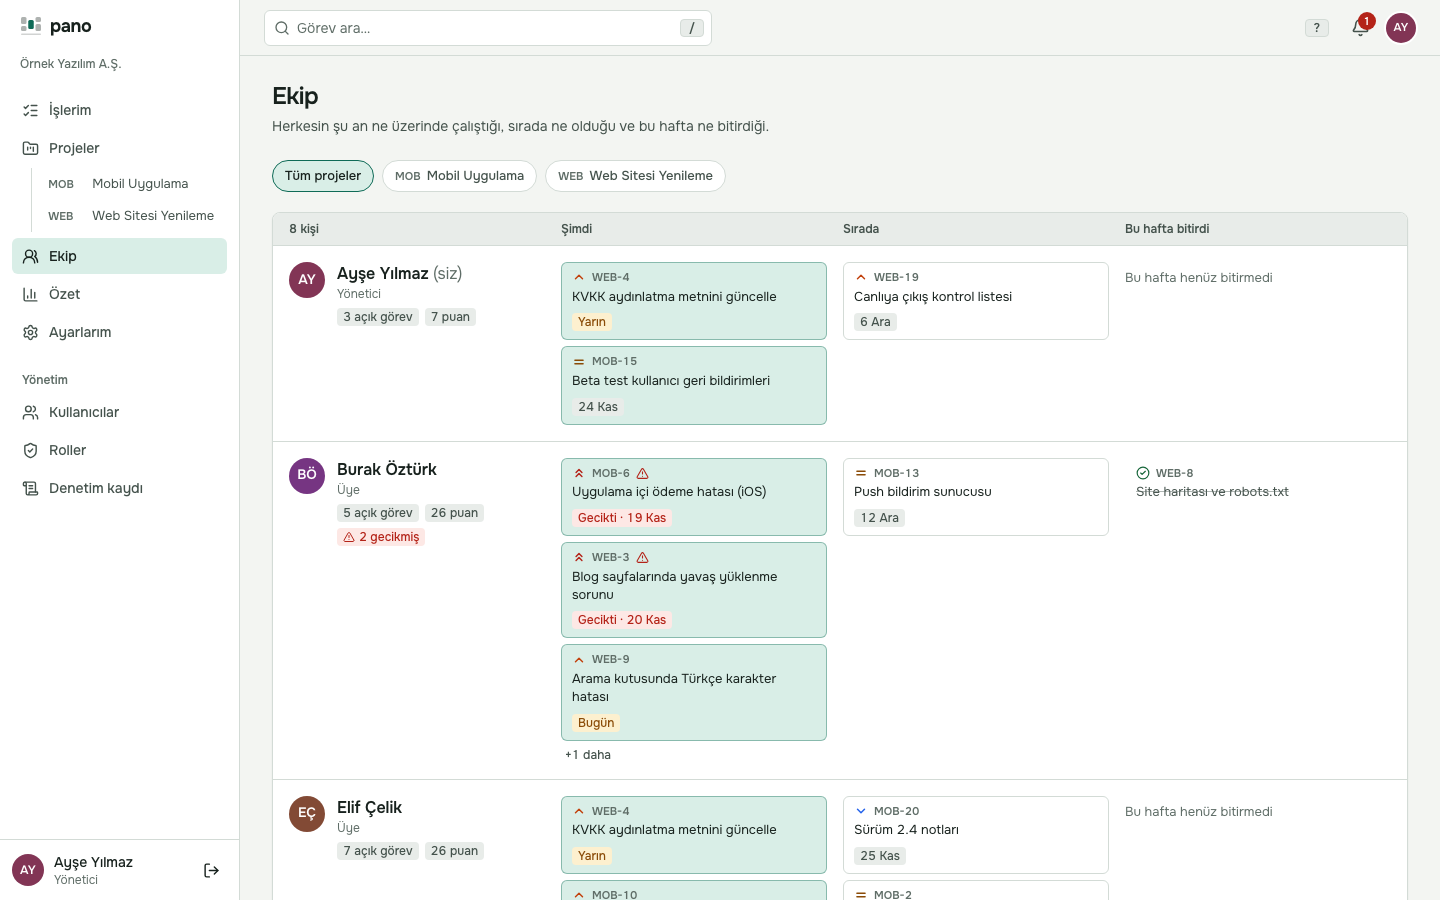
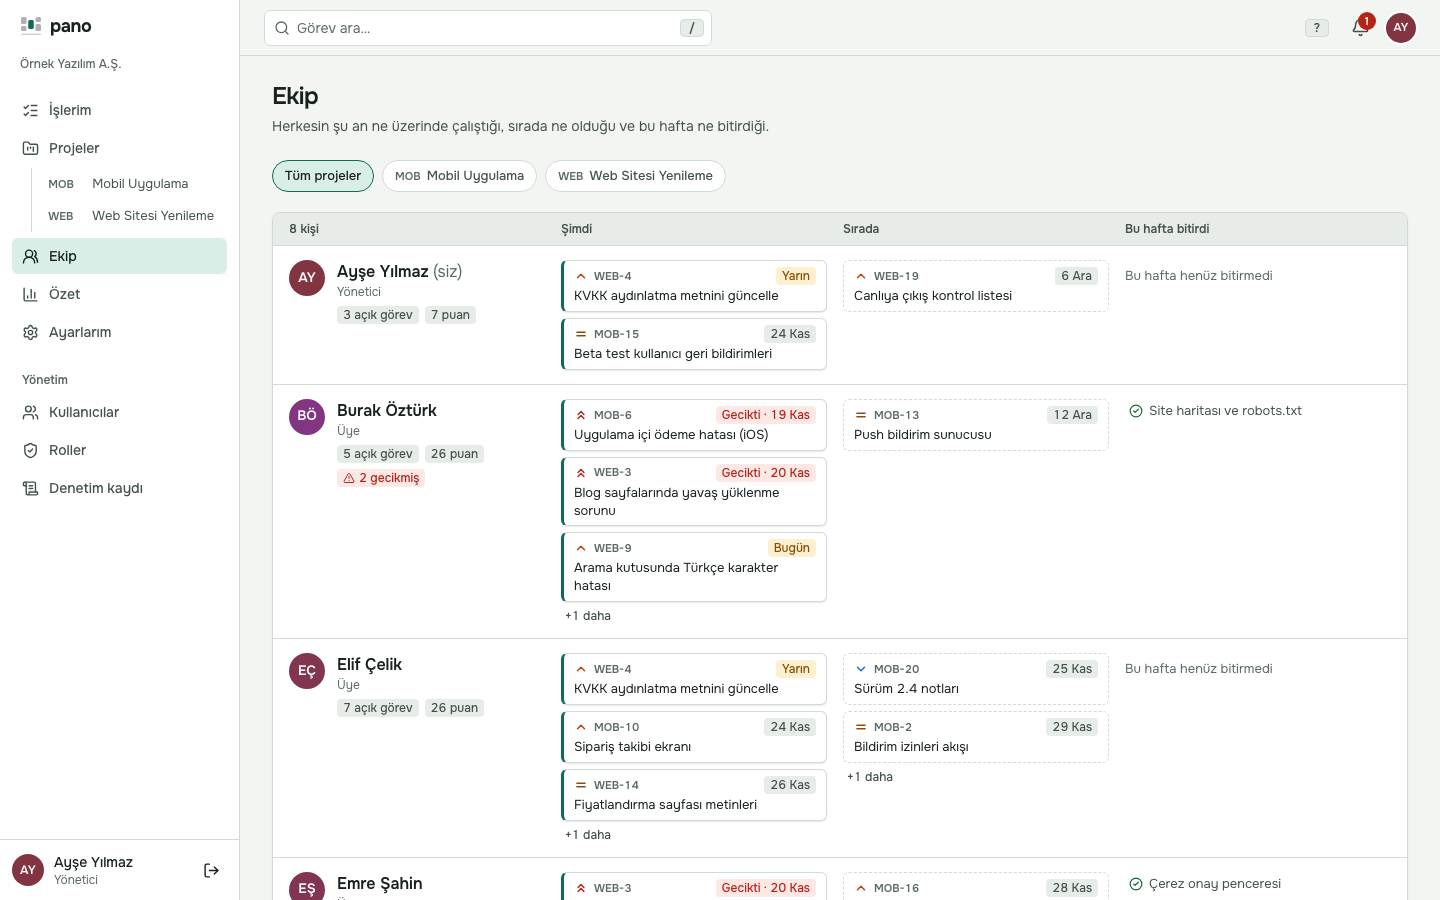
README screenshots refreshed; CHANGELOG: design round

diff --git a/CHANGELOG.md b/CHANGELOG.md
@@ -5,6 +5,27 @@ All notable changes to this project are documented here. The format follows
 
 ## [Unreleased]
 
+### Fixed (design round)
+
+- Sign-in, sign-up and invite pages over plain HTTP on a non-localhost address (with the default `COOKIE_SECURE=true`) bounced back without a word; they now explain that the browser will not keep the cookie and what to do. Detection is the browser's own `isSecureContext`. Checked by opening the app via the machine's LAN IP.
+- 404 pages ignored dark mode (Next renders them on the client, where the inline theme script never runs). e2e checks `data-theme` on a 404 in a dark context.
+- Overview overflowed the screen on phones; the weekly chart labels now wrap.
+- Board: at 1440px the Done column was cut off; the four default columns now share the width (min 15rem each, still scrolling when there are more). An over-limit (WIP) column keeps its amber border with a softer fill, which was loud in dark mode.
+- Automatic hyphenation removed: Turkish task titles were split by English rules in the English UI ("karak-ter").
+- Light `ink-3` darkened a little so small grey text keeps 4.5:1 on the brand tint.
+
+### Changed (design round)
+
+- **Team** reads at a glance: each task shows priority, key and due date on one line above the title; *Now* has an accent edge instead of a mint fill, *Next* is outlined, *Done this week* is one line with a check (no strike-through, up to 4 shown). Empty lanes collapse to one line on phones. About a quarter shorter on desktop and phone.
+- My work titles wrap to two lines on phones instead of being cut; sign-in form starts at the top on phones; board card avatars are larger and overlap less, filter avatars no longer overlap.
+- README screenshots refreshed from the running app.
+
+### Design round notes (for the next agent)
+
+- Every screen was captured in Turkish and English, light and dark, at 1440 and 390 (160 shots, scratch script not committed) with a check for elements running off the right edge of the screen; none remain. `scripts/screenshots.ts` still produces the README set.
+- Looked at and left alone: the unauthenticated pages follow the locale cookie, not the browser language, so a first visit is Turkish (the switch is top right); the estimate on a board card is a bare number (its tooltip says what it is); dark-mode stat tags on the Team page are low-key on purpose.
+- The GitHub repo exists (private) and CI ran green on `72b4021`; this round pushed the first-run and design commits.
+
 ### Fixed (first-run review)
 
 - On a phone, any board with an over-limit (WIP) column off-screen loaded zoomed out (a 412px screen laid out at 648px). A screen-reader label escaped the horizontal scroller because nothing around it was positioned; the scrollers are now its containing block. e2e checks the width in phone emulation.
@@ -41,9 +62,7 @@ All notable changes to this project are documented here. The format follows
 - `next dev` writes `AGENTS.md` (Next.js agent notes); it is committed on purpose.
 - Screenshots: run a seeded production build on :4500 (`npm run build && npm start`) and `npx tsx scripts/screenshots.ts docs/screenshots`.
 - Not verified on a real phone: the touch long-press drag (dnd-kit TouchSensor) and the mobile layout were checked only in Chromium's mobile emulation.
-- The GitHub repository has still not been created or pushed: `gh repo create Habibeyilmazz/pano --private --source . --push` was refused by the permission system again in the security round and in the first-run round. CI (`.github/workflows/ci.yml`) has therefore never run, including the Docker build and the seed against real Postgres. The owner has to create the repo (or allow the command) once.
 - First-run round: a local clone was followed from the README (`npm install`, `npm run dev`), a new company signed up and an admin, a manager (invite link), a member (temporary password) and an English viewer (invite link) worked a week in separate browser contexts: tasks, assignment, mentions, checklist, status moves and drag, stale-edit conflict, read-only viewer, Turkish search, Team, Overview, CSV, deactivation and role change (both end the session at once), audit log. The script lived in the scratchpad, not in the repo; `e2e/journey.spec.ts` holds the parts that found bugs.
-- Over plain HTTP on a non-localhost address with the default `COOKIE_SECURE=true`, sign-in "succeeds" and lands back on the sign-in page without a message. Documented in the README; not detected in code.
 - e2e: press shortcuts only after the page is hydrated (`waitUntil: "networkidle"`), or the key is lost.
 - Commits carry no Co-Authored-By line: a system instruction in these sessions forbids attribution lines.
 

diff --git a/README.md b/README.md
@@ -37,7 +37,7 @@ Newer npm versions print that install scripts of `esbuild` and `fsevents` were b
 
 ### Trying it on your phone
 
-`npm run dev` prints a "Network" address, but the dev server does not serve its scripts to other devices, and session cookies are `Secure` (sent only over HTTPS or to `localhost`), so signing in from a phone over plain HTTP silently fails. To try pano on a phone on the same Wi-Fi, run a production build without the `Secure` flag, for this local try-out only:
+`npm run dev` prints a "Network" address, but the dev server does not serve its scripts to other devices, and session cookies are `Secure` (sent only over HTTPS or to `localhost`), so signing in from a phone over plain HTTP cannot work (the sign-in page shows a warning when it detects this). To try pano on a phone on the same Wi-Fi, run a production build without the `Secure` flag, for this local try-out only:
 
 ```bash
 npm run build
